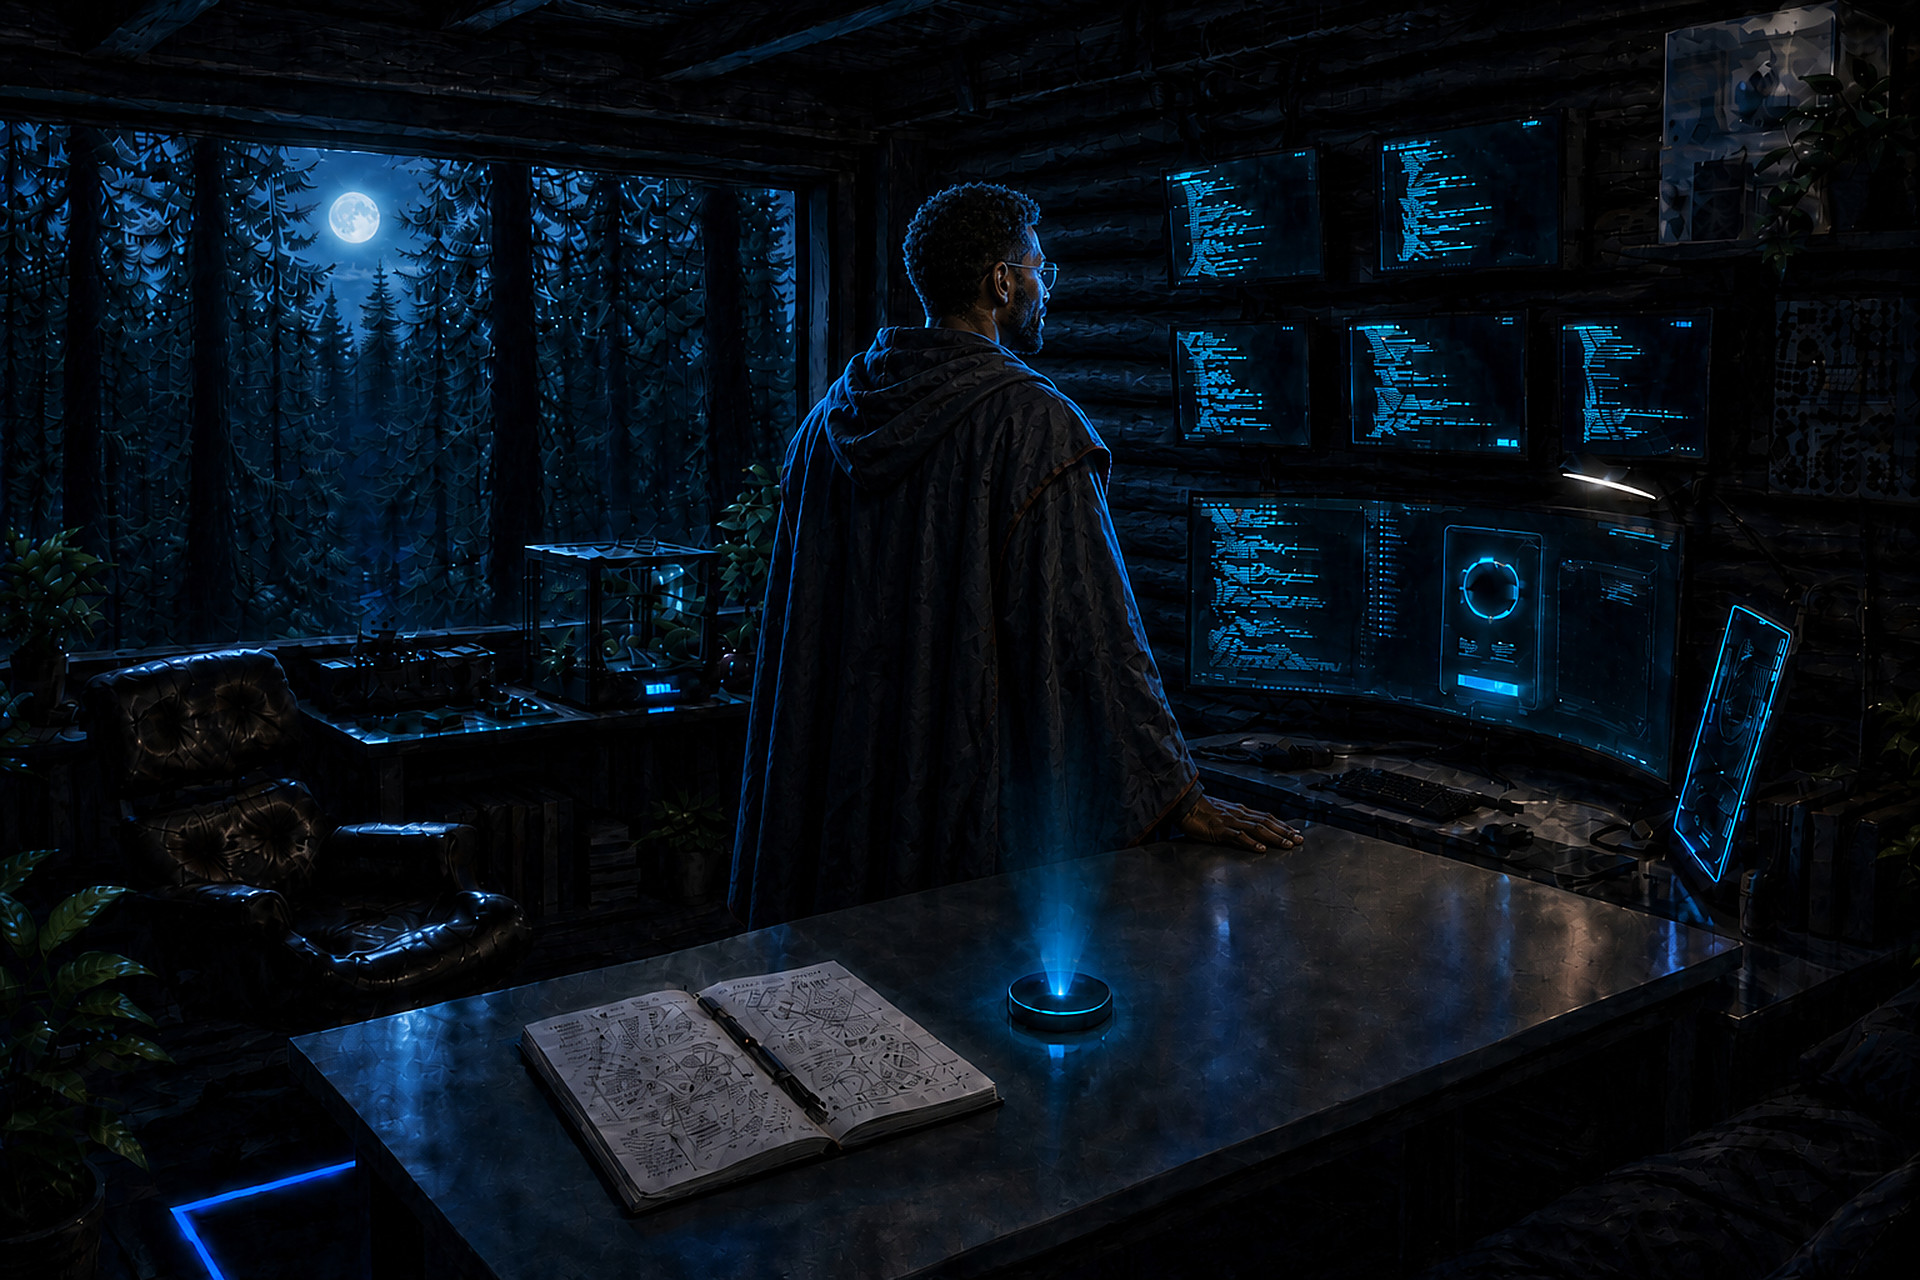
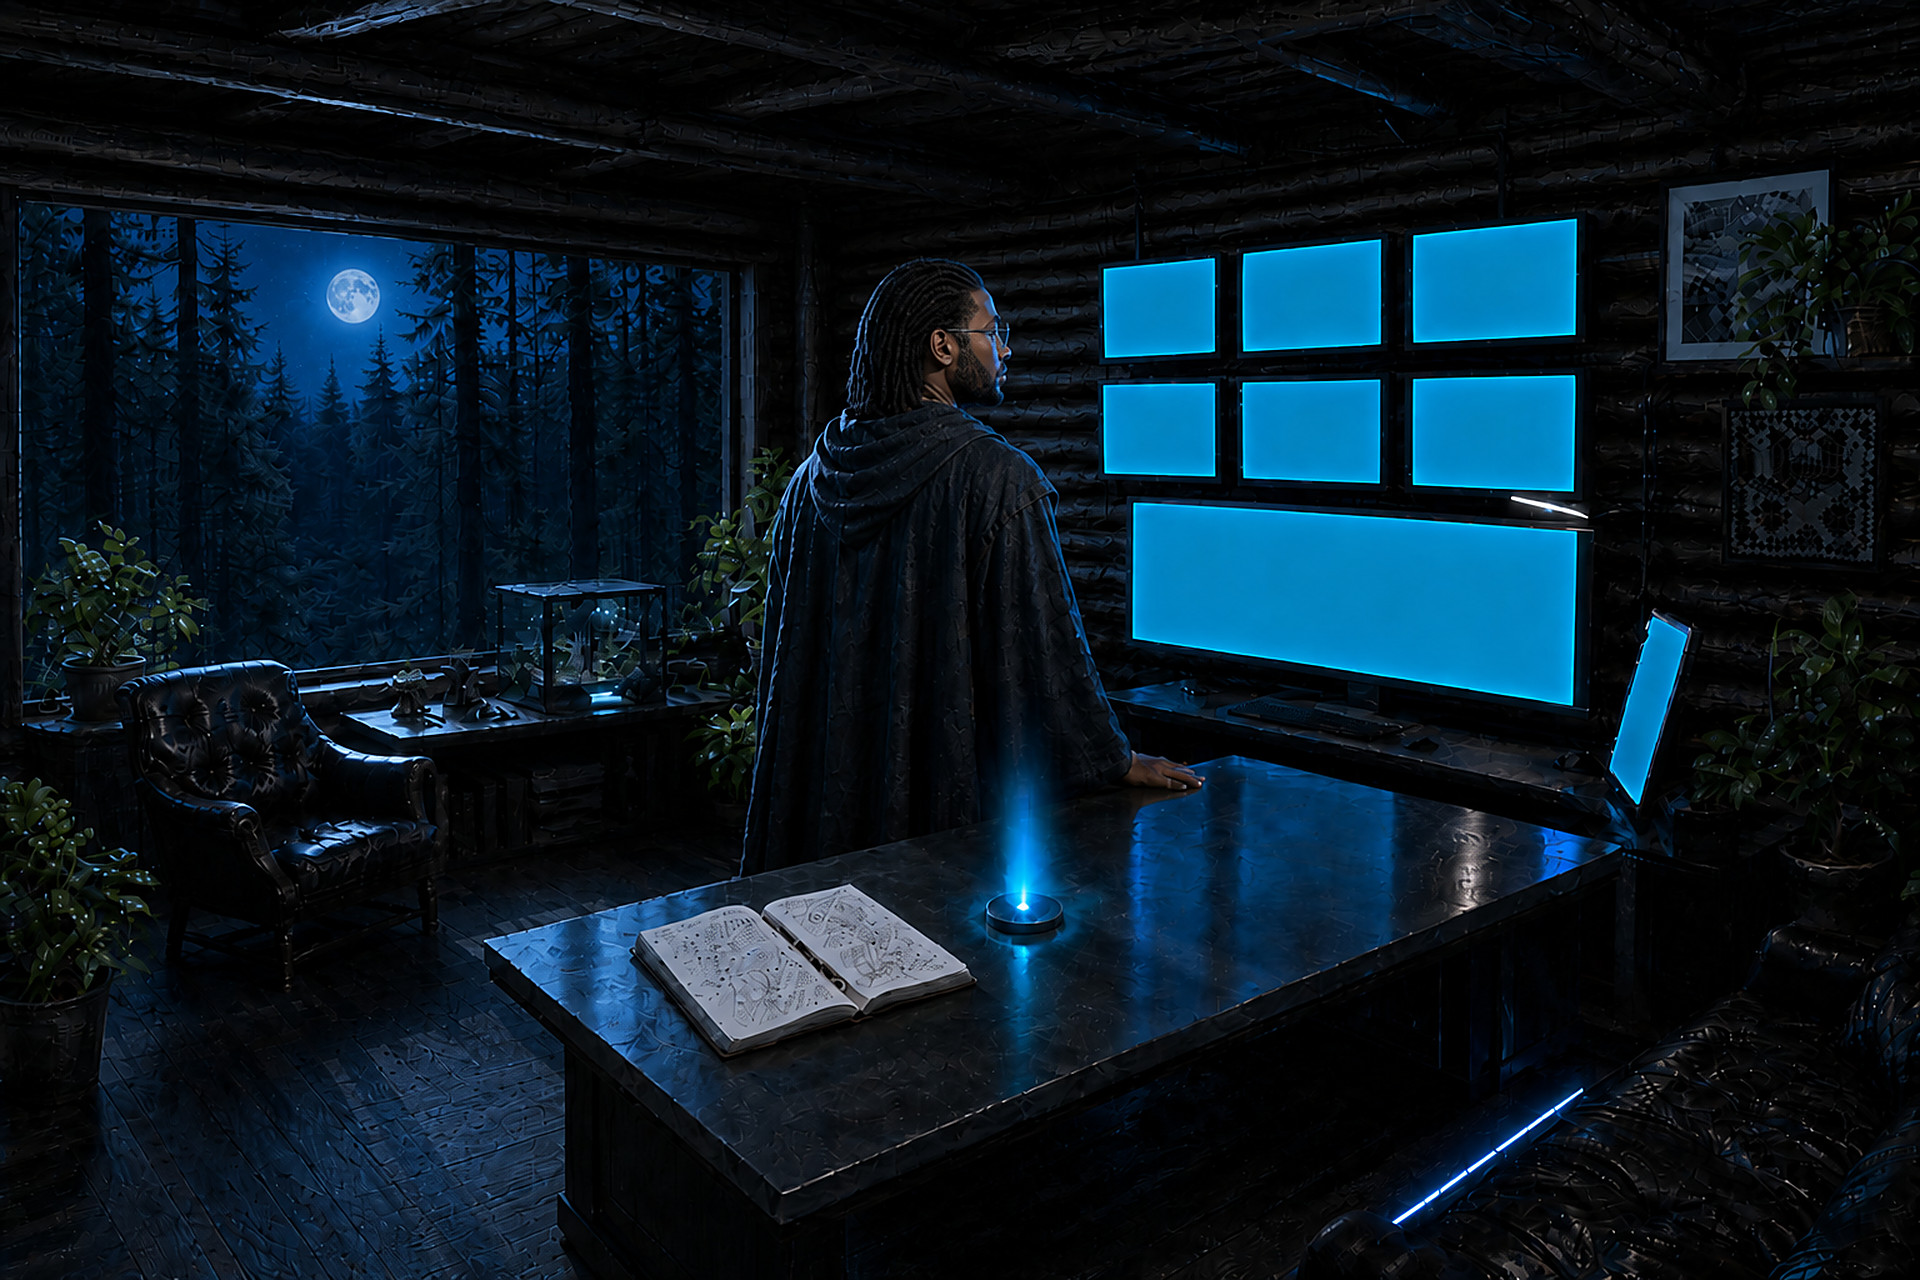
Widen the lab and put live feeds on empty glass
Pull the camera back so more of the cabin reads, give Caelum locs
tucked behind the ears, and drop the painted terminal text so only
the smoother scrolling feeds sit on the monitors.

diff --git a/site.css b/site.css
@@ -152,8 +152,8 @@ button {
     z-index: 0;
 }
 
-html[data-sky="night"] { --lab-image: url("images/lab-night.jpg"); }
-html[data-sky="day"] { --lab-image: url("images/lab-day.jpg"); }
+html[data-sky="night"] { --lab-image: url("images/lab-night.jpg?v=22"); }
+html[data-sky="day"] { --lab-image: url("images/lab-day.jpg?v=22"); }
 
 /* The artwork defines the stage: the scene box matches the 3:2 source image,
    so every overlay below can be positioned in image coordinates. */
@@ -191,8 +191,8 @@ html[data-sky="day"] .lab-photo--day {
 /* Sits over the moon / sun already painted into the window. */
 .sky-glow {
     position: absolute;
-    left: 18.5%;
-    top: 16.9%;
+    left: 18.2%;
+    top: 21.0%;
     width: 7%;
     aspect-ratio: 1;
     transform: translate(-50%, -50%);
@@ -203,8 +203,8 @@ html[data-sky="day"] .lab-photo--day {
 }
 
 html[data-sky="day"] .sky-glow {
-    left: 20%;
-    top: 16.6%;
+    left: 19.1%;
+    top: 26.3%;
     width: 12%;
     background: radial-gradient(circle, color-mix(in oklab, #ffd48a 45%, transparent) 0%, transparent 64%);
 }
@@ -218,32 +218,54 @@ html[data-sky="day"] .sky-glow {
 }
 
 /* No fill: a tinted box would read as a rectangle floating over the painting
-   wherever the traced bounds miss the bezel by a pixel. */
+   wherever the traced bounds miss the bezel by a pixel. The artwork's screens
+   are empty glass, so the feed is the only text. */
 .screen {
     position: absolute;
     overflow: hidden;
     mix-blend-mode: screen;
 }
 
-/* Coordinates traced from the glowing text areas of the source painting. Now
-   that Caelum faces the wall, nothing of his overlaps the top two rows, so each
-   feed gets the full width of its bezel. */
-.screen--m1 { left: 60.8%; top: 12.2%; width: 7.4%; height: 9.7%; }
-.screen--m2 { left: 72.2%; top: 11.1%; width: 7.7%; height: 10.4%; }
-.screen--m3 { left: 61.2%; top: 25.1%; width: 7.4%; height: 9.2%; }
-.screen--m4 { left: 70.3%; top: 24.7%; width: 8.2%; height: 10.2%; }
-.screen--m5 { left: 81.3%; top: 24.9%; width: 7.3%; height: 9.4%; }
+.screen::after {
+    content: "";
+    position: absolute;
+    inset: 0;
+    pointer-events: none;
+    background: repeating-linear-gradient(
+        to bottom,
+        transparent 0 0.22cqw,
+        color-mix(in oklab, #9ef6ff 22%, transparent) 0.22cqw 0.26cqw
+    );
+}
+
+/* Traced from the blank cyan panels in the current painting. */
+.screen--m1 { left: 57.2%; top: 20.1%; width: 6.3%; height: 8.2%; }
+.screen--m2 { left: 64.5%; top: 18.6%; width: 7.6%; height: 8.8%; }
+.screen--m3 { left: 73.3%; top: 17.0%; width: 8.8%; height: 9.7%; }
+.screen--m4 { left: 57.2%; top: 29.5%; width: 6.3%; height: 7.9%; }
+.screen--m5 { left: 64.4%; top: 29.6%; width: 7.6%; height: 8.1%; }
+.screen--m6 { left: 73.2%; top: 29.3%; width: 8.8%; height: 9.1%; }
+.screen--wide { left: 57.7%; top: 38.9%; width: 24.5%; height: 16.4%; }
 
 .screen-feed {
     margin: 0;
+    padding: 0.15cqw 0.28cqw;
     font-family: ui-monospace, SFMono-Regular, Menlo, monospace;
-    font-size: 0.46cqw;
-    line-height: 1.5;
-    color: #8ce8ff;
-    text-shadow: 0 0 0.25cqw color-mix(in oklab, #8ce8ff 70%, transparent);
+    font-size: 0.78cqw;
+    font-weight: 600;
+    line-height: 1.42;
+    letter-spacing: 0.01em;
+    color: #d4fbff;
+    text-shadow:
+        0 0 0.28cqw #8ef6ff,
+        0 0 0.7cqw #3ad8ff;
     white-space: pre;
-    transform: translateY(0);
-    transition: transform 0.9s linear;
+    will-change: transform;
+}
+
+.screen--wide .screen-feed {
+    font-size: 0.92cqw;
+    padding: 0.28cqw 0.45cqw;
 }
 
 .hotspot {
@@ -286,22 +308,22 @@ html[data-sky="day"] .sky-glow {
 }
 
 .hotspot--window {
-    left: 30%;
+    left: 20%;
     top: 26%;
     width: 1.7%;
     aspect-ratio: 1;
 }
 
 .hotspot--printer {
-    left: 32%;
-    top: 46%;
+    left: 27%;
+    top: 50%;
     width: 1.7%;
     aspect-ratio: 1;
 }
 
 .hotspot--chair {
-    left: 13%;
-    top: 63%;
+    left: 17%;
+    top: 62%;
     width: 1.7%;
     aspect-ratio: 1;
 }
@@ -319,9 +341,8 @@ html[data-sky="day"] .sky-glow {
     animation: hologram-float 6s ease-in-out infinite;
 }
 
-/* Centred on the emitter puck (55.2%) and floating far enough above it that the
-   caption clears the puck's top edge at 75.6% rather than printing across it. */
-.hologram--nimlo { left: 51.2%; top: 43.5%; animation-duration: 7.1s; animation-delay: -1.6s; }
+/* Centred on the emitter puck (~52.5%) and floating in the cone above it. */
+.hologram--nimlo { left: 47.5%; top: 46.0%; animation-duration: 7.1s; animation-delay: -1.6s; }
 
 /* Hidden while its clone is flying to the centre of the screen. */
 .hologram.is-launching {
@@ -332,10 +353,10 @@ html[data-sky="day"] .sky-glow {
    this is just the hit area, the lighting and the label over it. */
 .notebook {
     position: absolute;
-    left: 27.6%;
-    top: 75.4%;
-    width: 24.3%;
-    height: 18.7%;
+    left: 29.5%;
+    top: 68.0%;
+    width: 21.5%;
+    height: 17.5%;
     z-index: 7;
     background: none;
 }
@@ -786,7 +807,11 @@ html[data-sky="day"] .sky-glow {
     /* Keep the kicker over the visible slice rather than the scene's midpoint. */
     /* cqw shrinks with the scene, so the type needs winding back up by hand. */
     .screen-feed {
-        font-size: 0.75cqw;
+        font-size: 1.15cqw;
+    }
+
+    .screen--wide .screen-feed {
+        font-size: 1.35cqw;
     }
 
     .hologram-name { font-size: 2.6cqw; }

diff --git a/index.html b/index.html
@@ -7,13 +7,13 @@
     <meta name="description" content="Caelum Mercer — independent app producer. Thoughtful software for everyday life.">
     <meta property="og:title" content="Caelum Mercer">
     <meta property="og:description" content="Independent app producer. Step into the lab.">
-    <meta property="og:image" content="images/lab-night.jpg">
+    <meta property="og:image" content="images/lab-night.jpg?v=22">
     <meta name="theme-color" content="#0A0A0B">
     <link rel="icon" type="image/svg+xml" href="favicon.svg">
     <link rel="preconnect" href="https://fonts.googleapis.com">
     <link rel="preconnect" href="https://fonts.gstatic.com" crossorigin>
     <link href="https://fonts.googleapis.com/css2?family=Fraunces:opsz,wght@9..144,500;9..144,600&family=Outfit:wght@400;500;600;700&display=swap" rel="stylesheet">
-    <link rel="stylesheet" href="site.css?v=21">
+    <link rel="stylesheet" href="site.css?v=22">
     <style>html,body{background:#07080c;color:#F5F3EE}</style>
 </head>
 <body>
@@ -32,17 +32,19 @@
 
     <main id="lab" class="lab">
         <div class="lab-scene" id="lab-scene">
-            <img class="lab-photo lab-photo--night" src="images/lab-night.jpg" alt="Caelum Mercer in dark robes standing in his cyber-cabin lab at night" width="1920" height="1280">
-            <img class="lab-photo lab-photo--day" src="images/lab-day.jpg" alt="Caelum Mercer in dark robes standing in his cyber-cabin lab during the day" width="1920" height="1280">
+            <img class="lab-photo lab-photo--night" src="images/lab-night.jpg?v=22" alt="Caelum Mercer in dark robes standing in his cyber-cabin lab at night" width="1920" height="1280">
+            <img class="lab-photo lab-photo--day" src="images/lab-day.jpg?v=22" alt="Caelum Mercer in dark robes standing in his cyber-cabin lab during the day" width="1920" height="1280">
 
             <div class="sky-glow" aria-hidden="true"></div>
 
             <div class="screens" aria-hidden="true">
                 <div class="screen screen--m1"><pre class="screen-feed" data-speed="1"></pre></div>
-                <div class="screen screen--m2"><pre class="screen-feed" data-speed="0.8"></pre></div>
-                <div class="screen screen--m3"><pre class="screen-feed" data-speed="1.2"></pre></div>
-                <div class="screen screen--m4"><pre class="screen-feed" data-speed="0.9"></pre></div>
-                <div class="screen screen--m5"><pre class="screen-feed" data-speed="1.35"></pre></div>
+                <div class="screen screen--m2"><pre class="screen-feed" data-speed="0.82"></pre></div>
+                <div class="screen screen--m3"><pre class="screen-feed" data-speed="1.15"></pre></div>
+                <div class="screen screen--m4"><pre class="screen-feed" data-speed="0.94"></pre></div>
+                <div class="screen screen--m5"><pre class="screen-feed" data-speed="1.28"></pre></div>
+                <div class="screen screen--m6"><pre class="screen-feed" data-speed="0.88"></pre></div>
+                <div class="screen screen--wide"><pre class="screen-feed" data-speed="0.7"></pre></div>
             </div>
 
             <button class="hotspot hotspot--window" type="button">
@@ -167,6 +169,6 @@
         </div>
     </template>
 
-    <script src="main.js?v=16" type="module"></script>
+    <script src="main.js?v=17" type="module"></script>
 </body>
 </html>

diff --git a/main.js b/main.js
@@ -10,22 +10,21 @@ const inspectorBody = document.getElementById("inspector-body");
 const scene = document.getElementById("lab-scene");
 
 const terminalLines = [
-  "sync profile ok",
-  "hydrate cache",
-  "auth.session up",
-  "build troutt",
-  "build nimlo",
-  "notes indexed",
-  "128 items",
-  "plan generated",
-  "rest timer set",
-  "store listing ok",
-  "diff clean",
-  "tests 42/42",
-  "deploy staged",
-  "ship it",
-  "listening...",
-  "commit signed",
+  "> sync profile …… ok",
+  "> hydrate cache … 128kb",
+  "> auth.session …… up",
+  "> build troutt …… done",
+  "> build nimlo ……… done",
+  "> notes indexed … 128",
+  "> plan generated … ok",
+  "> rest timer ……… set",
+  "> store listing … ok",
+  "> git diff ……… clean",
+  "> tests ………… 42/42",
+  "> deploy staged … ok",
+  "> commit signed … ok",
+  "> listening …………",
+  "> ship it",
 ];
 
 function isDaylight(date = new Date()) {
@@ -46,42 +45,41 @@ applySky();
 setInterval(() => applySky(), 60_000);
 
 const feeds = [...document.querySelectorAll(".screen-feed")];
+const FEED_PX_PER_SEC = 22;
+const FEED_LINES = 36;
 
 function seedScreens() {
   feeds.forEach((feed, index) => {
     const rotated = [...terminalLines.slice(index), ...terminalLines.slice(0, index)];
-    const block = Array.from({ length: 24 }, (_, i) => rotated[i % rotated.length]).join("\n");
+    const block = Array.from({ length: FEED_LINES }, (_, i) => rotated[i % rotated.length]).join("\n");
     // Duplicated so the scroll can loop back without a visible seam.
     feed.textContent = `${block}\n${block}`;
     feed.dataset.offset = "0";
+    feed.style.transform = "translateY(0)";
   });
 }
 
-function tickScreens() {
+let lastFeedTick = performance.now();
+
+function tickScreens(now) {
+  const dt = Math.min((now - lastFeedTick) / 1000, 0.05);
+  lastFeedTick = now;
+
   feeds.forEach((feed) => {
-    const lineHeight = feed.scrollHeight / (2 * 24);
-    const step = lineHeight * Number(feed.dataset.speed || 1);
-    const next = Number(feed.dataset.offset || 0) + step;
     const loopAt = feed.scrollHeight / 2;
-
-    if (next >= loopAt) {
-      feed.style.transition = "none";
-      feed.style.transform = "translateY(0)";
-      feed.dataset.offset = "0";
-      requestAnimationFrame(() => {
-        feed.style.transition = "";
-      });
-      return;
-    }
-
+    if (!loopAt) return;
+    let next = Number(feed.dataset.offset || 0) + FEED_PX_PER_SEC * Number(feed.dataset.speed || 1) * dt;
+    if (next >= loopAt) next -= loopAt;
     feed.dataset.offset = String(next);
     feed.style.transform = `translateY(-${next}px)`;
   });
+
+  requestAnimationFrame(tickScreens);
 }
 
 seedScreens();
 if (!reduceMotion) {
-  setInterval(tickScreens, 1800);
+  requestAnimationFrame(tickScreens);
 }
 window.addEventListener("resize", seedScreens);
 

diff --git a/README.md b/README.md
@@ -1,11 +1,11 @@
 # Caelum Mercer
 
 Personal site for independent app producer Caelum Mercer.
-The painted lab scene is the canvas for the whole page. Every interactive element is positioned in image coordinates against the 3:2 artwork, so the live terminal feeds render inside the monitors that exist in the painting, Troutt is the open sketchbook lying on the desk, and Nimlo is projected out of the emitter puck beside it. About and contact stay in the header rather than painted onto a monitor, where they competed with the artwork's own code text. Click either for its description and store listings. The sun or moon scene follows the visitor's local time of day.
+The painted lab scene is the canvas for the whole page. Every interactive element is positioned in image coordinates against the 3:2 artwork, so the live terminal feeds render inside the monitors that exist in the painting, Troutt is the open sketchbook lying on the desk, and Nimlo is projected out of the emitter puck beside it. The monitors in the artwork are blank glowing glass — the only text on them is the scrolling feed. About and contact stay in the header. Click either product for its description and store listings. The sun or moon scene follows the visitor's local time of day.
 
 Screen and hologram coordinates were traced from the source artwork, not eyeballed — if the images are ever regenerated, the percentages in `site.css` need to be re-measured. `tools/grid.py` overlays a labelled percentage grid on a scene so boxes can be read off it, and `tools/trace-scene.py` reports the glowing monitor regions.
 
-Scene artwork is generated at 1536×1024 and encoded by `tools/encode-scene.py`. Use it rather than `sips`: the room is saturated cyan detail on near-black, so JPEG's default 4:2:0 chroma subsampling visibly smears the terminal text. Note also that the scene must not carry a fractional CSS `scale()` — a composite-time resample softens the artwork and every glyph drawn over it.
+Scene artwork is generated at 1536×1024 and encoded by `tools/encode-scene.py`. Use it rather than `sips`: the room is saturated cyan detail on near-black, so JPEG's default 4:2:0 chroma subsampling smears the glow. Note also that the scene must not carry a fractional CSS `scale()` — a composite-time resample softens the artwork and every glyph drawn over it.
 
 ## Local Development
 
